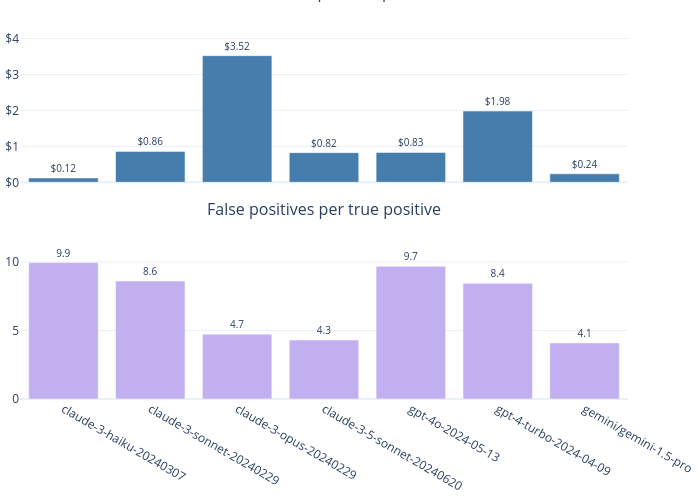
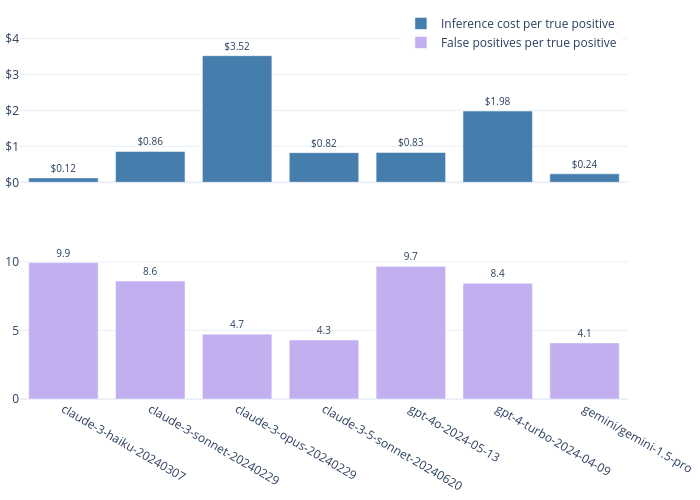
improve two plots

Changed region(s): [[0.3, 0.39, 0.63, 0.45], [0.57, 0.03, 0.87, 0.09]]

diff --git a/eyeballvul_experiments/results.py b/eyeballvul_experiments/results.py
@@ -799,8 +799,8 @@ def plot_cve_severities(instruction_template_hash: str, scoring_model: str):
     fig.update_layout(template="plotly_white", margin=dict(t=5, l=5, r=5, b=5))
 
     fig.update_xaxes(title_text="Base Severity (CVSS v3)", nticks=nticks, row=2, col=1)
-    fig.update_yaxes(title_text="Rate", row=1, col=1)
-    fig.update_yaxes(title_text="Rate", row=2, col=1)
+    fig.update_yaxes(title_text="Rate", row=1, col=1, tickformat=",.0%")
+    fig.update_yaxes(title_text="Rate", row=2, col=1, tickformat=",.0%")
 
     fig.write_image(Config.paths.plots / "cve_severities.png")
 
@@ -848,7 +848,6 @@ def plot_costs(instruction_template_hash: str, scoring_model: str, model_order: 
         cols=1,
         shared_xaxes=True,
         vertical_spacing=0.1,
-        subplot_titles=("Inference cost per true positive", "False positives per true positive"),
     )
 
     fig.add_trace(
@@ -859,6 +858,7 @@ def plot_costs(instruction_template_hash: str, scoring_model: str, model_order: 
             text=[f"${x:.2f}" for x in df["inference_cost_per_tp"]],
             textposition="outside",
             textfont=dict(size=10),
+            name="Inference cost per true positive",
         ),
         row=1,
         col=1,
@@ -872,6 +872,7 @@ def plot_costs(instruction_template_hash: str, scoring_model: str, model_order: 
             text=df["fp_per_tp"].round(1),
             textposition="outside",
             textfont=dict(size=10),
+            name="False positives per true positive",
         ),
         row=2,
         col=1,
@@ -880,8 +881,8 @@ def plot_costs(instruction_template_hash: str, scoring_model: str, model_order: 
     fig.update_layout(
         barmode="group",
         template="plotly_white",
-        showlegend=False,
         margin=dict(t=5, l=5, r=5, b=5),
+        legend=dict(yanchor="top", y=0.99, xanchor="right", x=0.99),
     )
     fig.update_yaxes(row=1, col=1, tickprefix="$")
     fig.update_yaxes(row=1, col=1, range=[0, df["inference_cost_per_tp"].max() * 1.4])
